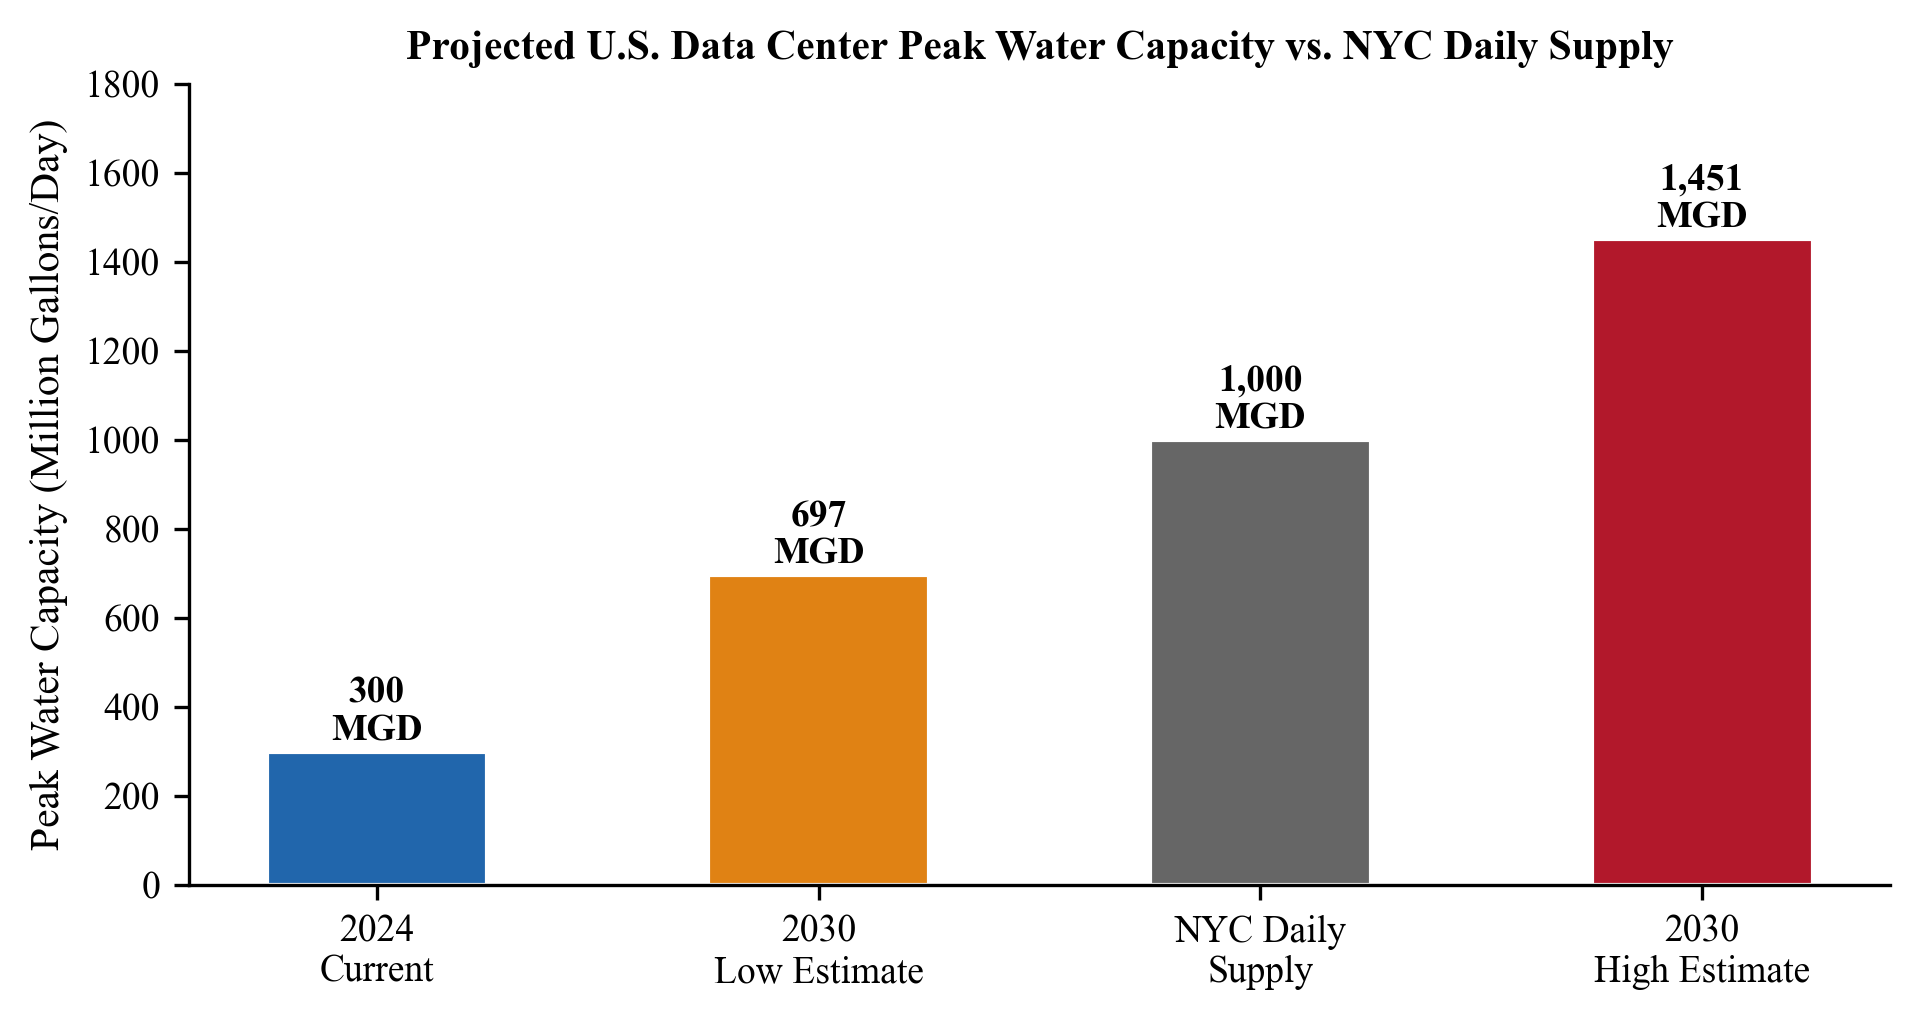
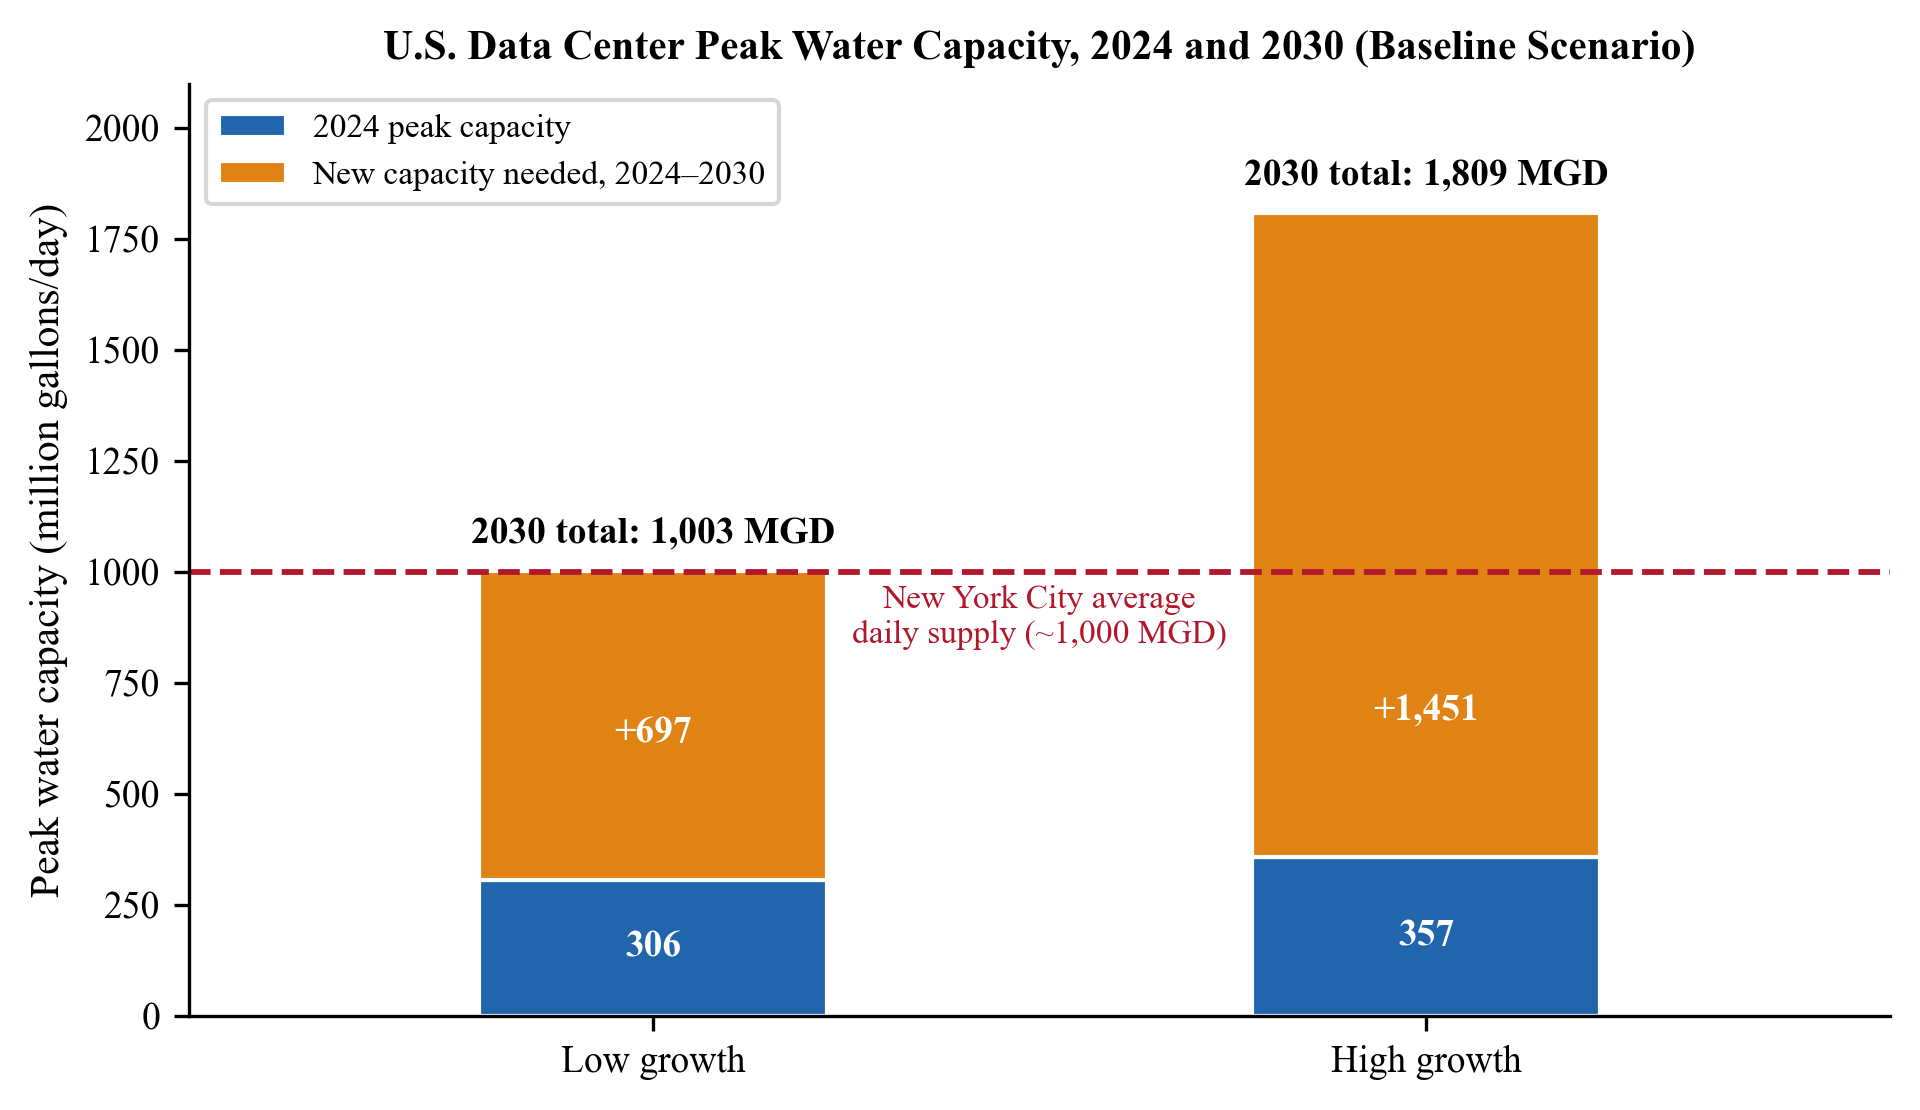
Figure 4: stacked 2024 capacity + new 2024-2030 capacity from Han et al. Table 3
The old bar chart compared total 2024 capacity (unsourced 300 MGD) with new
capacity increments (697, 1,451 MGD) as if they were totals.

diff --git a/04_generate_figures.py b/04_generate_figures.py
@@ -155,17 +155,36 @@ def fig03_embodied_vs_operational():
 
 
 def fig04_water():
-    # 2030 values: Han et al. (2026), new peak water capacity. NYC supply ~1,000 MGD.
-    fig, ax = plt.subplots(figsize=(6.5, 3.5))
-    cats = ["2024\nCurrent", "2030\nLow Estimate", "NYC Daily\nSupply", "2030\nHigh Estimate"]
-    mgd = [300, 697, 1000, 1451]
-    bars = ax.bar(cats, mgd, color=[BLUE, ORANGE, GRAY, RED], width=0.5, edgecolor="white")
-    for bar, v in zip(bars, mgd):
-        ax.text(bar.get_x() + bar.get_width() / 2, v + 25, f"{v:,}\nMGD", ha="center", fontsize=9, fontweight="bold")
-    ax.set_ylabel("Peak Water Capacity (Million Gallons/Day)")
-    ax.set_title("Projected U.S. Data Center Peak Water Capacity vs. NYC Daily Supply",
+    # Han et al. (2026), arXiv:2603.02705, Table 3, Baseline scenario, total U.S. data centers (MGD):
+    #   2024 capacity 306 (low growth) / 357 (high growth); 2030 capacity 1,003 / 1,809;
+    #   new capacity 2024->2030: 697 / 1,451. NYC average daily supply ~1,000 MGD (cited in Han et al.).
+    cases = ["Low growth", "High growth"]
+    cap_2024 = np.array([306, 357])
+    new_cap = np.array([697, 1451])
+    cap_2030 = np.array([1003, 1809])
+    fig, ax = plt.subplots(figsize=(6.5, 3.8))
+    x = np.arange(len(cases))
+    ax.bar(x, cap_2024, width=0.45, color=BLUE, edgecolor="white", label="2024 peak capacity")
+    ax.bar(x, new_cap, width=0.45, bottom=cap_2024, color=ORANGE, edgecolor="white",
+           label="New capacity needed, 2024\u20132030")
+    for i in range(len(cases)):
+        ax.text(x[i], cap_2024[i] / 2, f"{cap_2024[i]:,}", ha="center", va="center", fontsize=9,
+                color="white", fontweight="bold")
+        ax.text(x[i], cap_2024[i] + min(new_cap[i] / 2, 330), f"+{new_cap[i]:,}", ha="center", va="center",
+                fontsize=9, color="white", fontweight="bold")
+        ax.text(x[i], cap_2030[i] + 45, f"2030 total: {cap_2030[i]:,} MGD", ha="center", va="bottom",
+                fontsize=9, fontweight="bold")
+    ax.axhline(1000, color=RED, ls="--", lw=1.4)
+    ax.text(0.5, 1000 - 30, "New York City average\ndaily supply (~1,000 MGD)", color=RED, fontsize=8,
+            ha="center", va="top")
+    ax.set_xticks(x)
+    ax.set_xticklabels(cases)
+    ax.set_xlim(-0.6, 1.6)
+    ax.set_ylim(0, 2100)
+    ax.set_ylabel("Peak water capacity (million gallons/day)")
+    ax.set_title("U.S. Data Center Peak Water Capacity, 2024 and 2030 (Baseline Scenario)",
                  fontweight="bold", fontsize=10)
-    ax.set_ylim(0, 1800)
+    ax.legend(fontsize=8, loc="upper left")
     fig.tight_layout()
     save_fig(fig, "fig04_water_demand.png")
 
